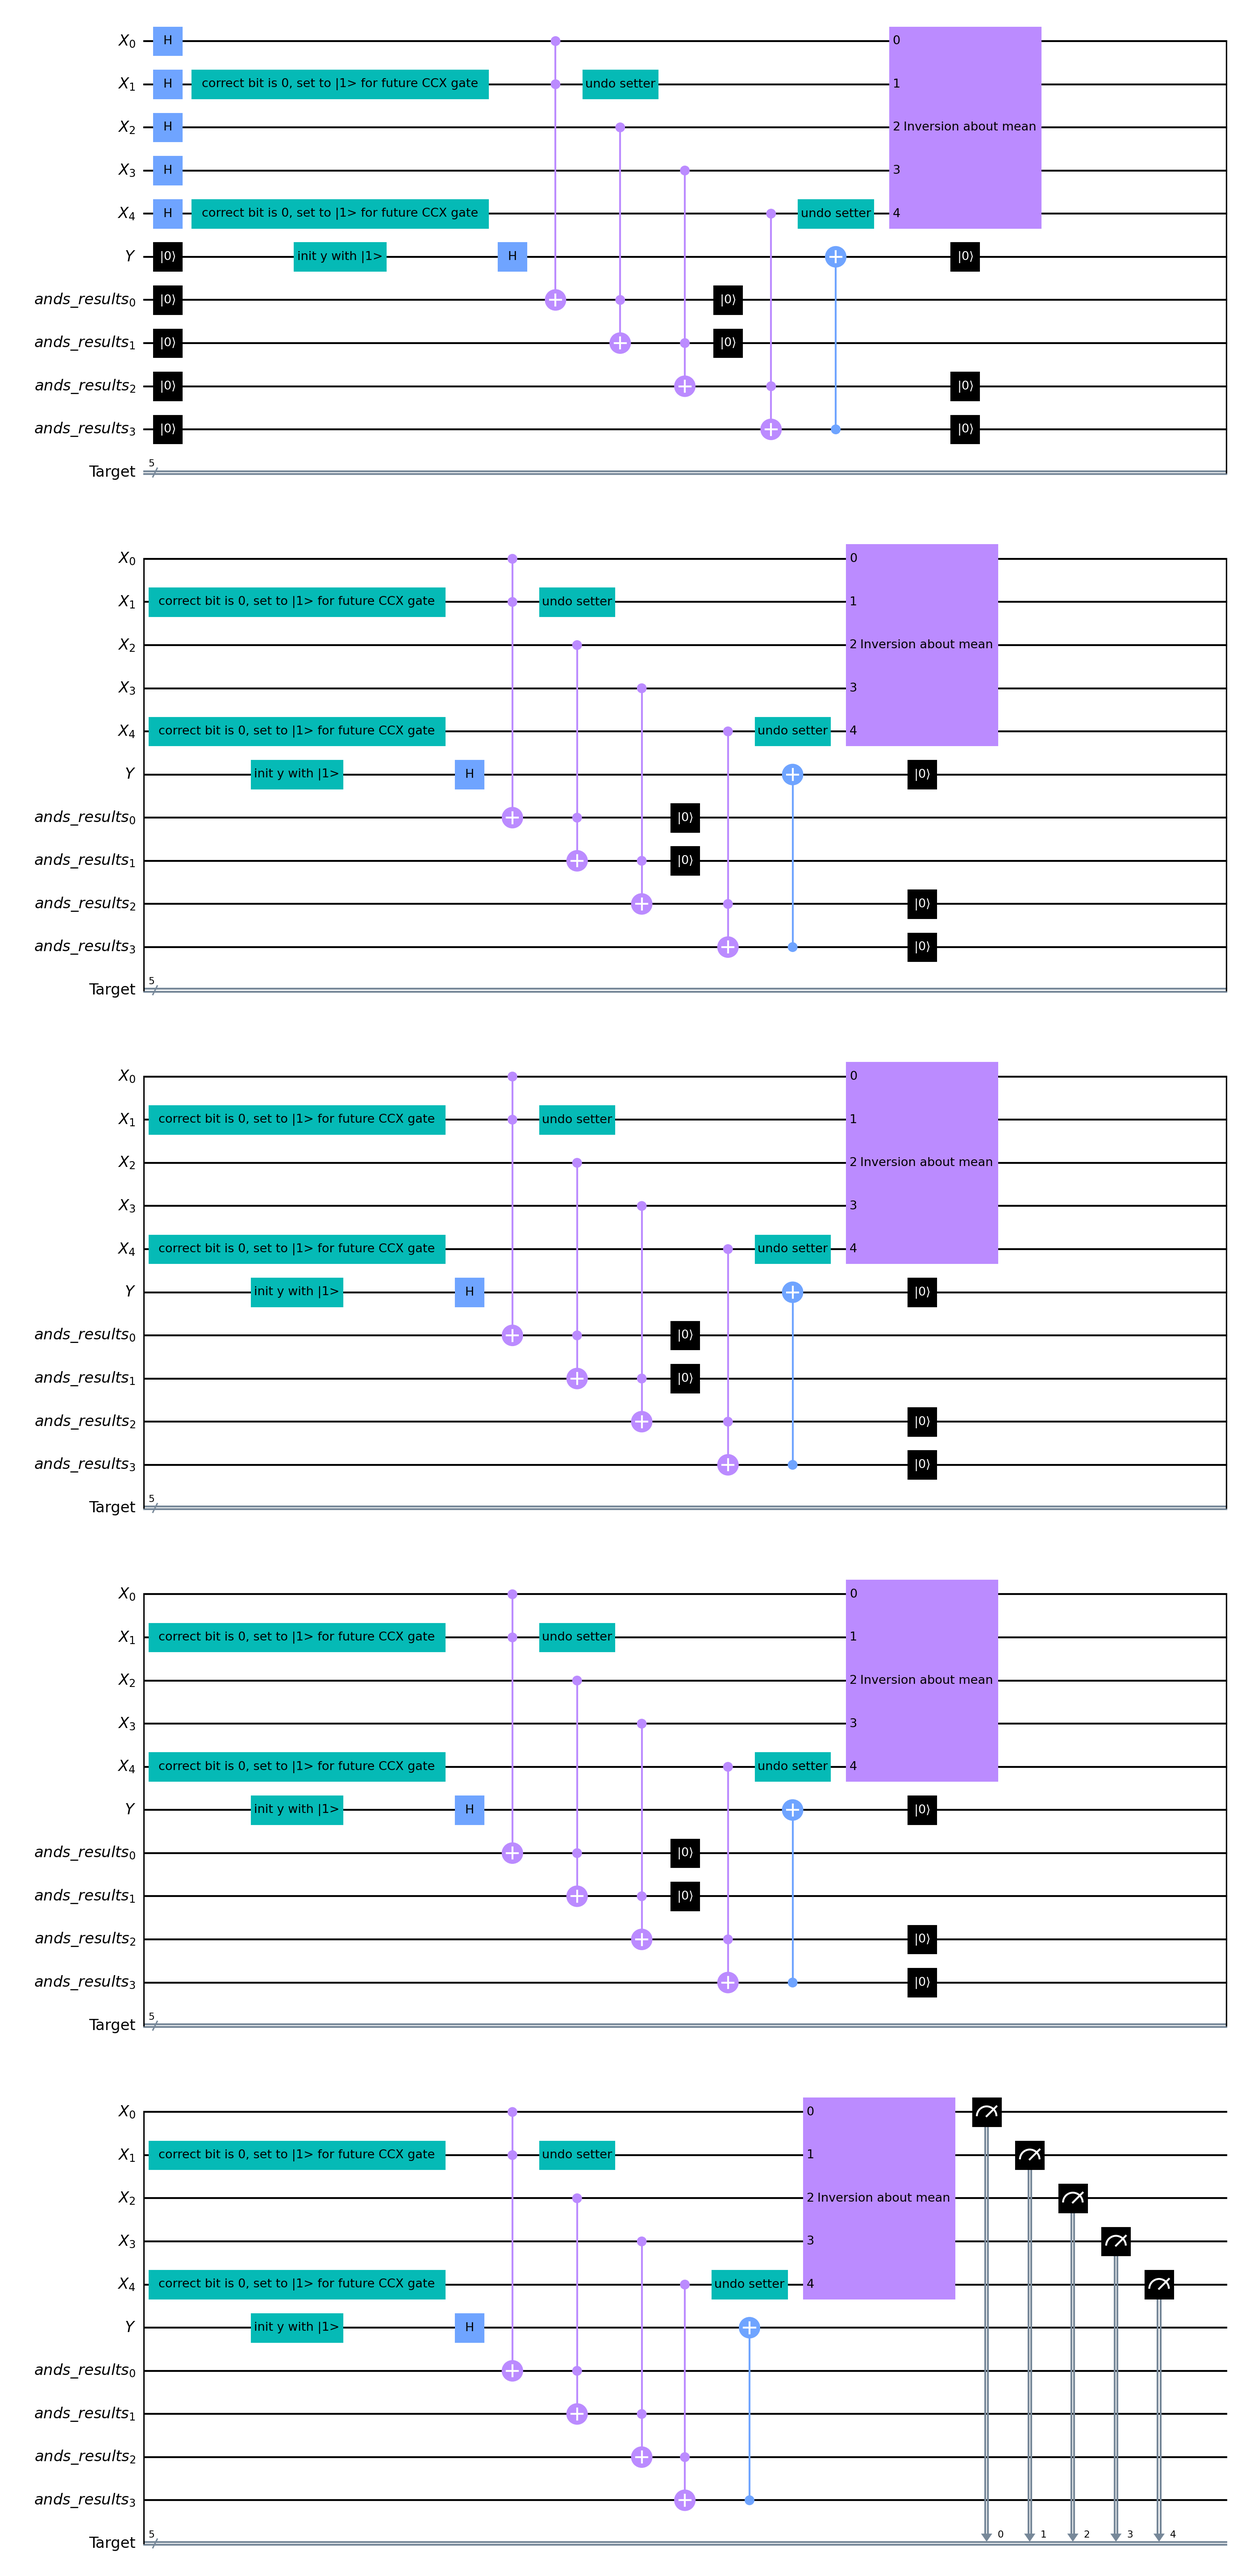
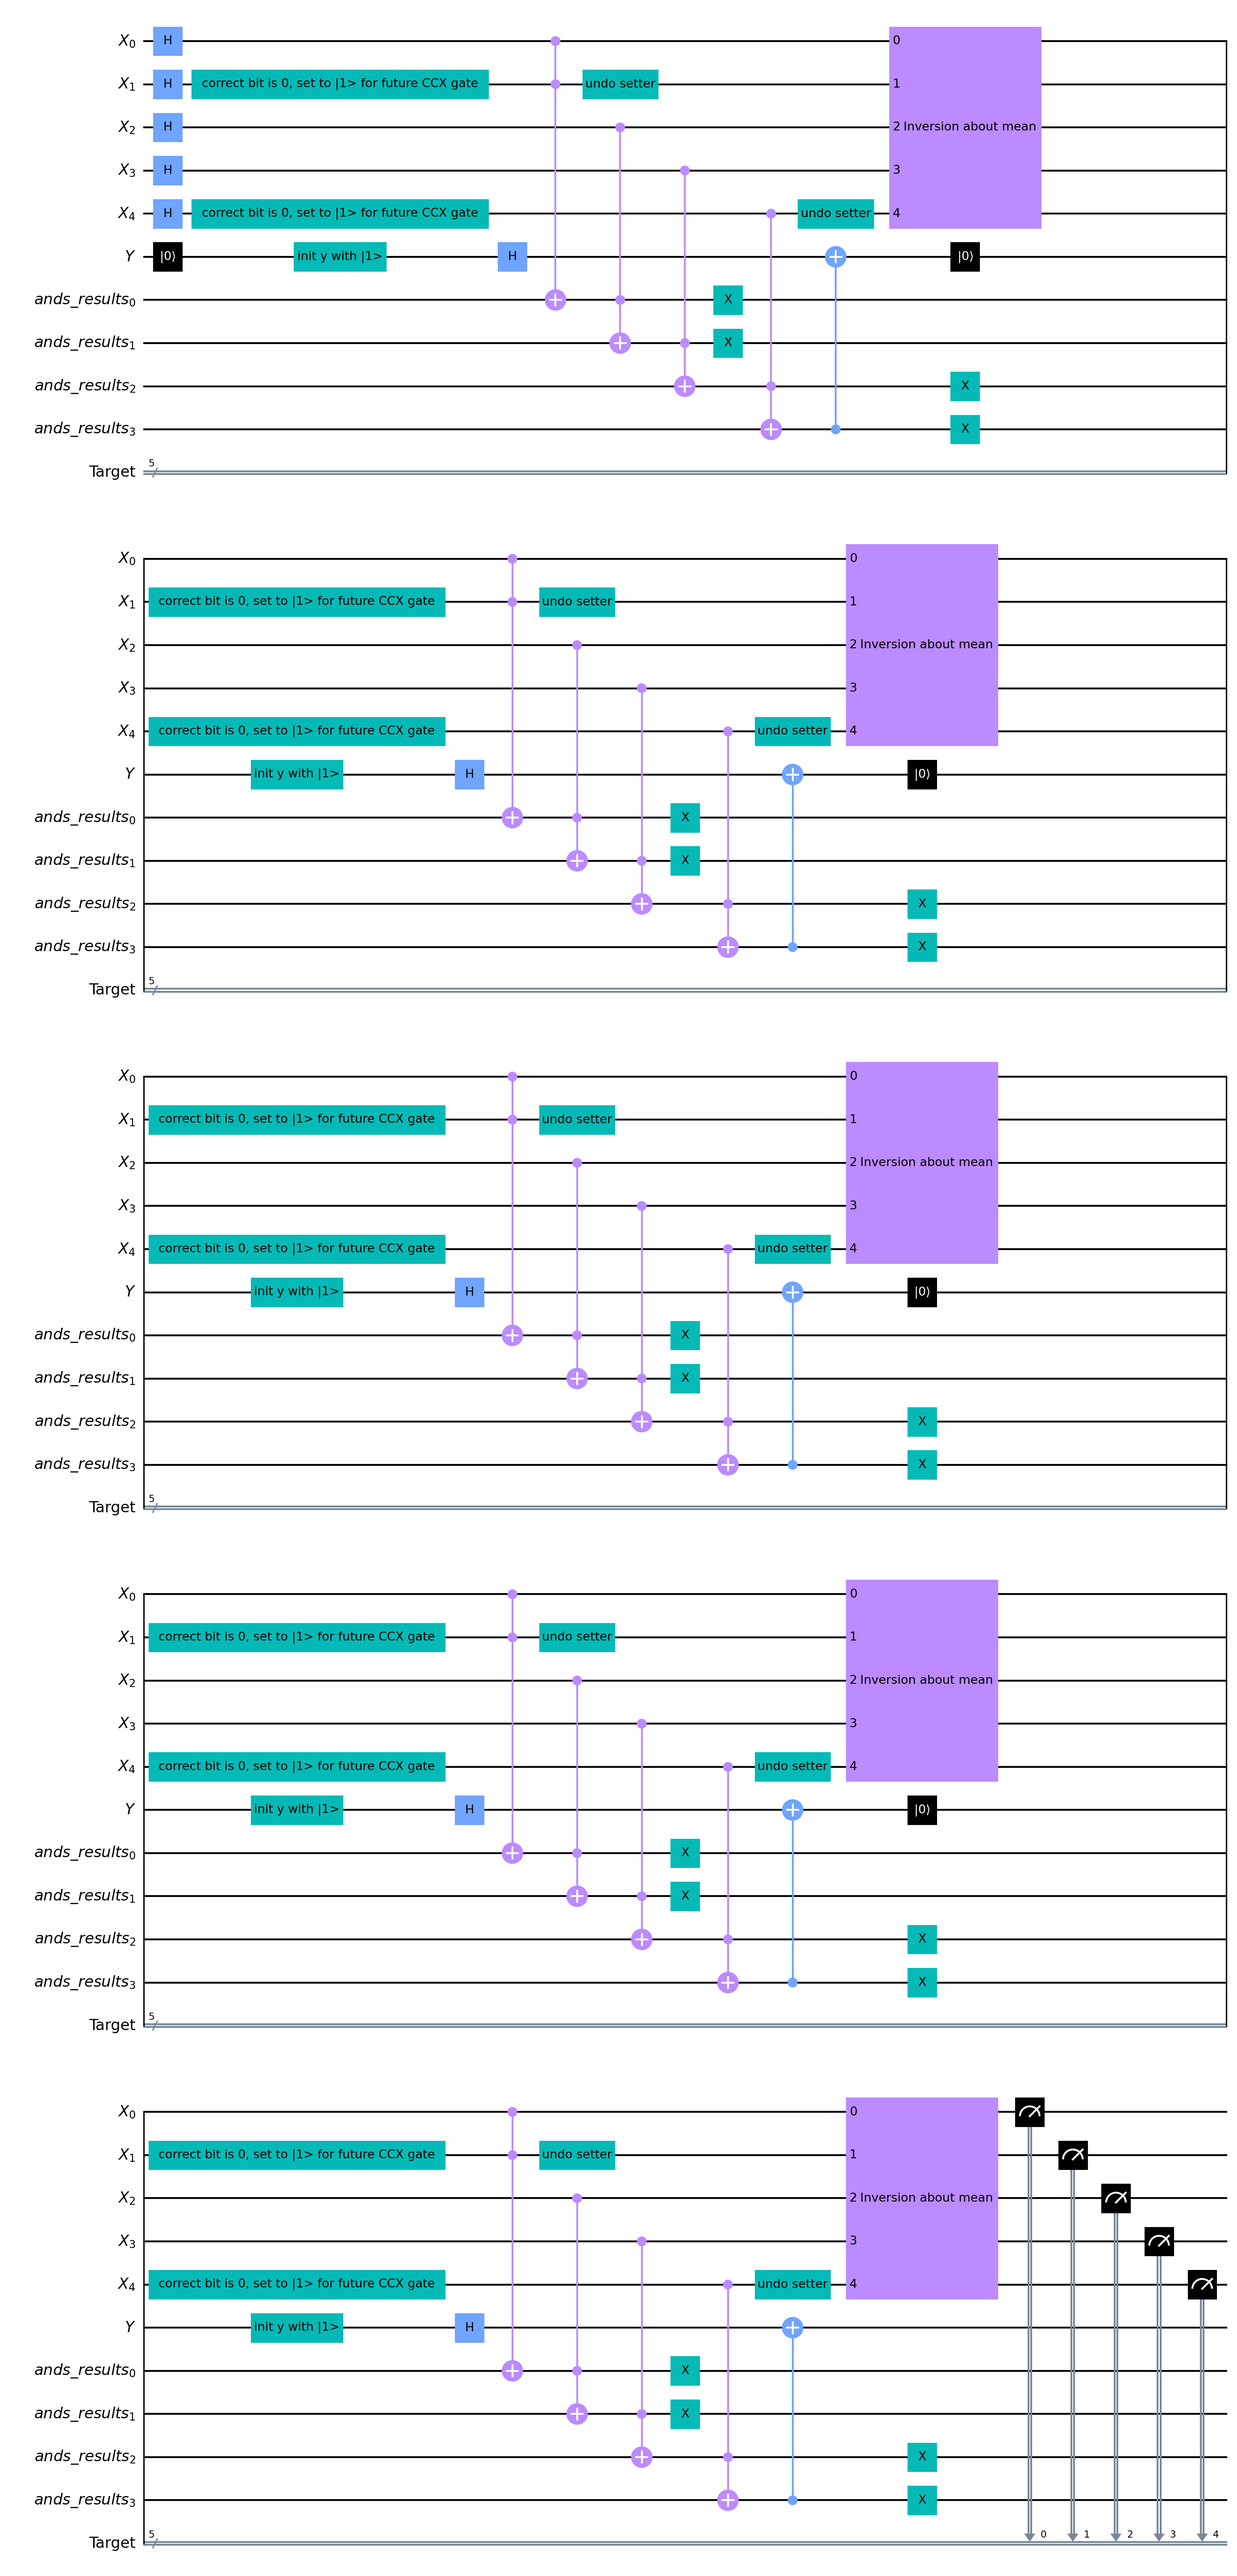
Q2:  finally reseting ands_results properly in the loop (just X gate instead of reset methods)

diff --git a/TP2/grover_ibmq.py b/TP2/grover_ibmq.py
@@ -1,8 +1,12 @@
 import numpy as np
-from qiskit import QuantumCircuit, transpile, QuantumRegister, ClassicalRegister
+from qiskit import QuantumCircuit, transpile, QuantumRegister, ClassicalRegister, execute, IBMQ
+
 from qiskit_aer import QasmSimulator
 from qiskit.visualization import plot_histogram
 import qiskit.quantum_info as qi
[1 lines of base64/hex data omitted]
+provider = IBMQ.load_account()
+backend = provider.backends.simulator_statevector
 
 target = '01101'
 
@@ -14,7 +18,7 @@ I = np.identity(2 ** len(target))
 matrix = -I + 2 * np_a
 
 # Use Aer's qasm_simulator
-simulator = QasmSimulator()
+# simulator = QasmSimulator()
 # Create quantum program that find 01101 by reversing its phase
 x = QuantumRegister(len(target), name='X')  # 5 qubits index 0 is the right most qubit
 y = QuantumRegister(1, name='Y')
@@ -28,7 +32,6 @@ for j in range(int((2 ** len(target)) ** (1 / 2))):
     grover.reset(y)
     grover.x(y, 'init y with |1>')
     grover.h(y)
-
     for i in range(len(target) - 1):
         correct_index = len(target) - i - 1
         if i == 0:
@@ -57,6 +60,7 @@ for j in range(int((2 ** len(target)) ** (1 / 2))):
     # ands_results[len(target) - 2] contains f(x) value
     # Apply CX gate to qubit ands_results[8], y in order to get f(x) output (classical XOR)
     grover.cx(ands_results[len(target) - 2], y)
+
     inversion_about_mean = qi.Operator(matrix.tolist())
     grover.unitary(inversion_about_mean, x, label='Inversion about mean')
     grover.x(ands_results)
@@ -64,18 +68,18 @@ for j in range(int((2 ** len(target)) ** (1 / 2))):
 # Map the quantum measurement to the classical bits
 grover.measure(x, res)
 
-compiled_circuit = transpile(grover, simulator)
-
+# compiled_circuit = transpile(grover, simulator)
+transpiled = transpile(grover, backend=backend)
+job = backend.run(transpiled, shots=20000)
 # Execute the circuit on the qasm simulator
-job = simulator.run(compiled_circuit, shots=20000)
 
 # Grab results from the job
 result = job.result()
 
 # Returns counts
-counts = result.get_counts(compiled_circuit)
+counts = result.get_counts(grover)
 
 # Draw the circuit
-grover.draw('mpl', filename='grover.png')
+grover.draw('mpl', filename='grover_ibmq.png')
 
-plot_histogram(counts, filename='grover_hist.png', title='Grover Histogram', bar_labels=True, figsize=(10, 8))
+plot_histogram(counts, filename='grover_ibmq_hist.png', title='Grover IBMQ Histogram', bar_labels=True, figsize=(10, 8))
